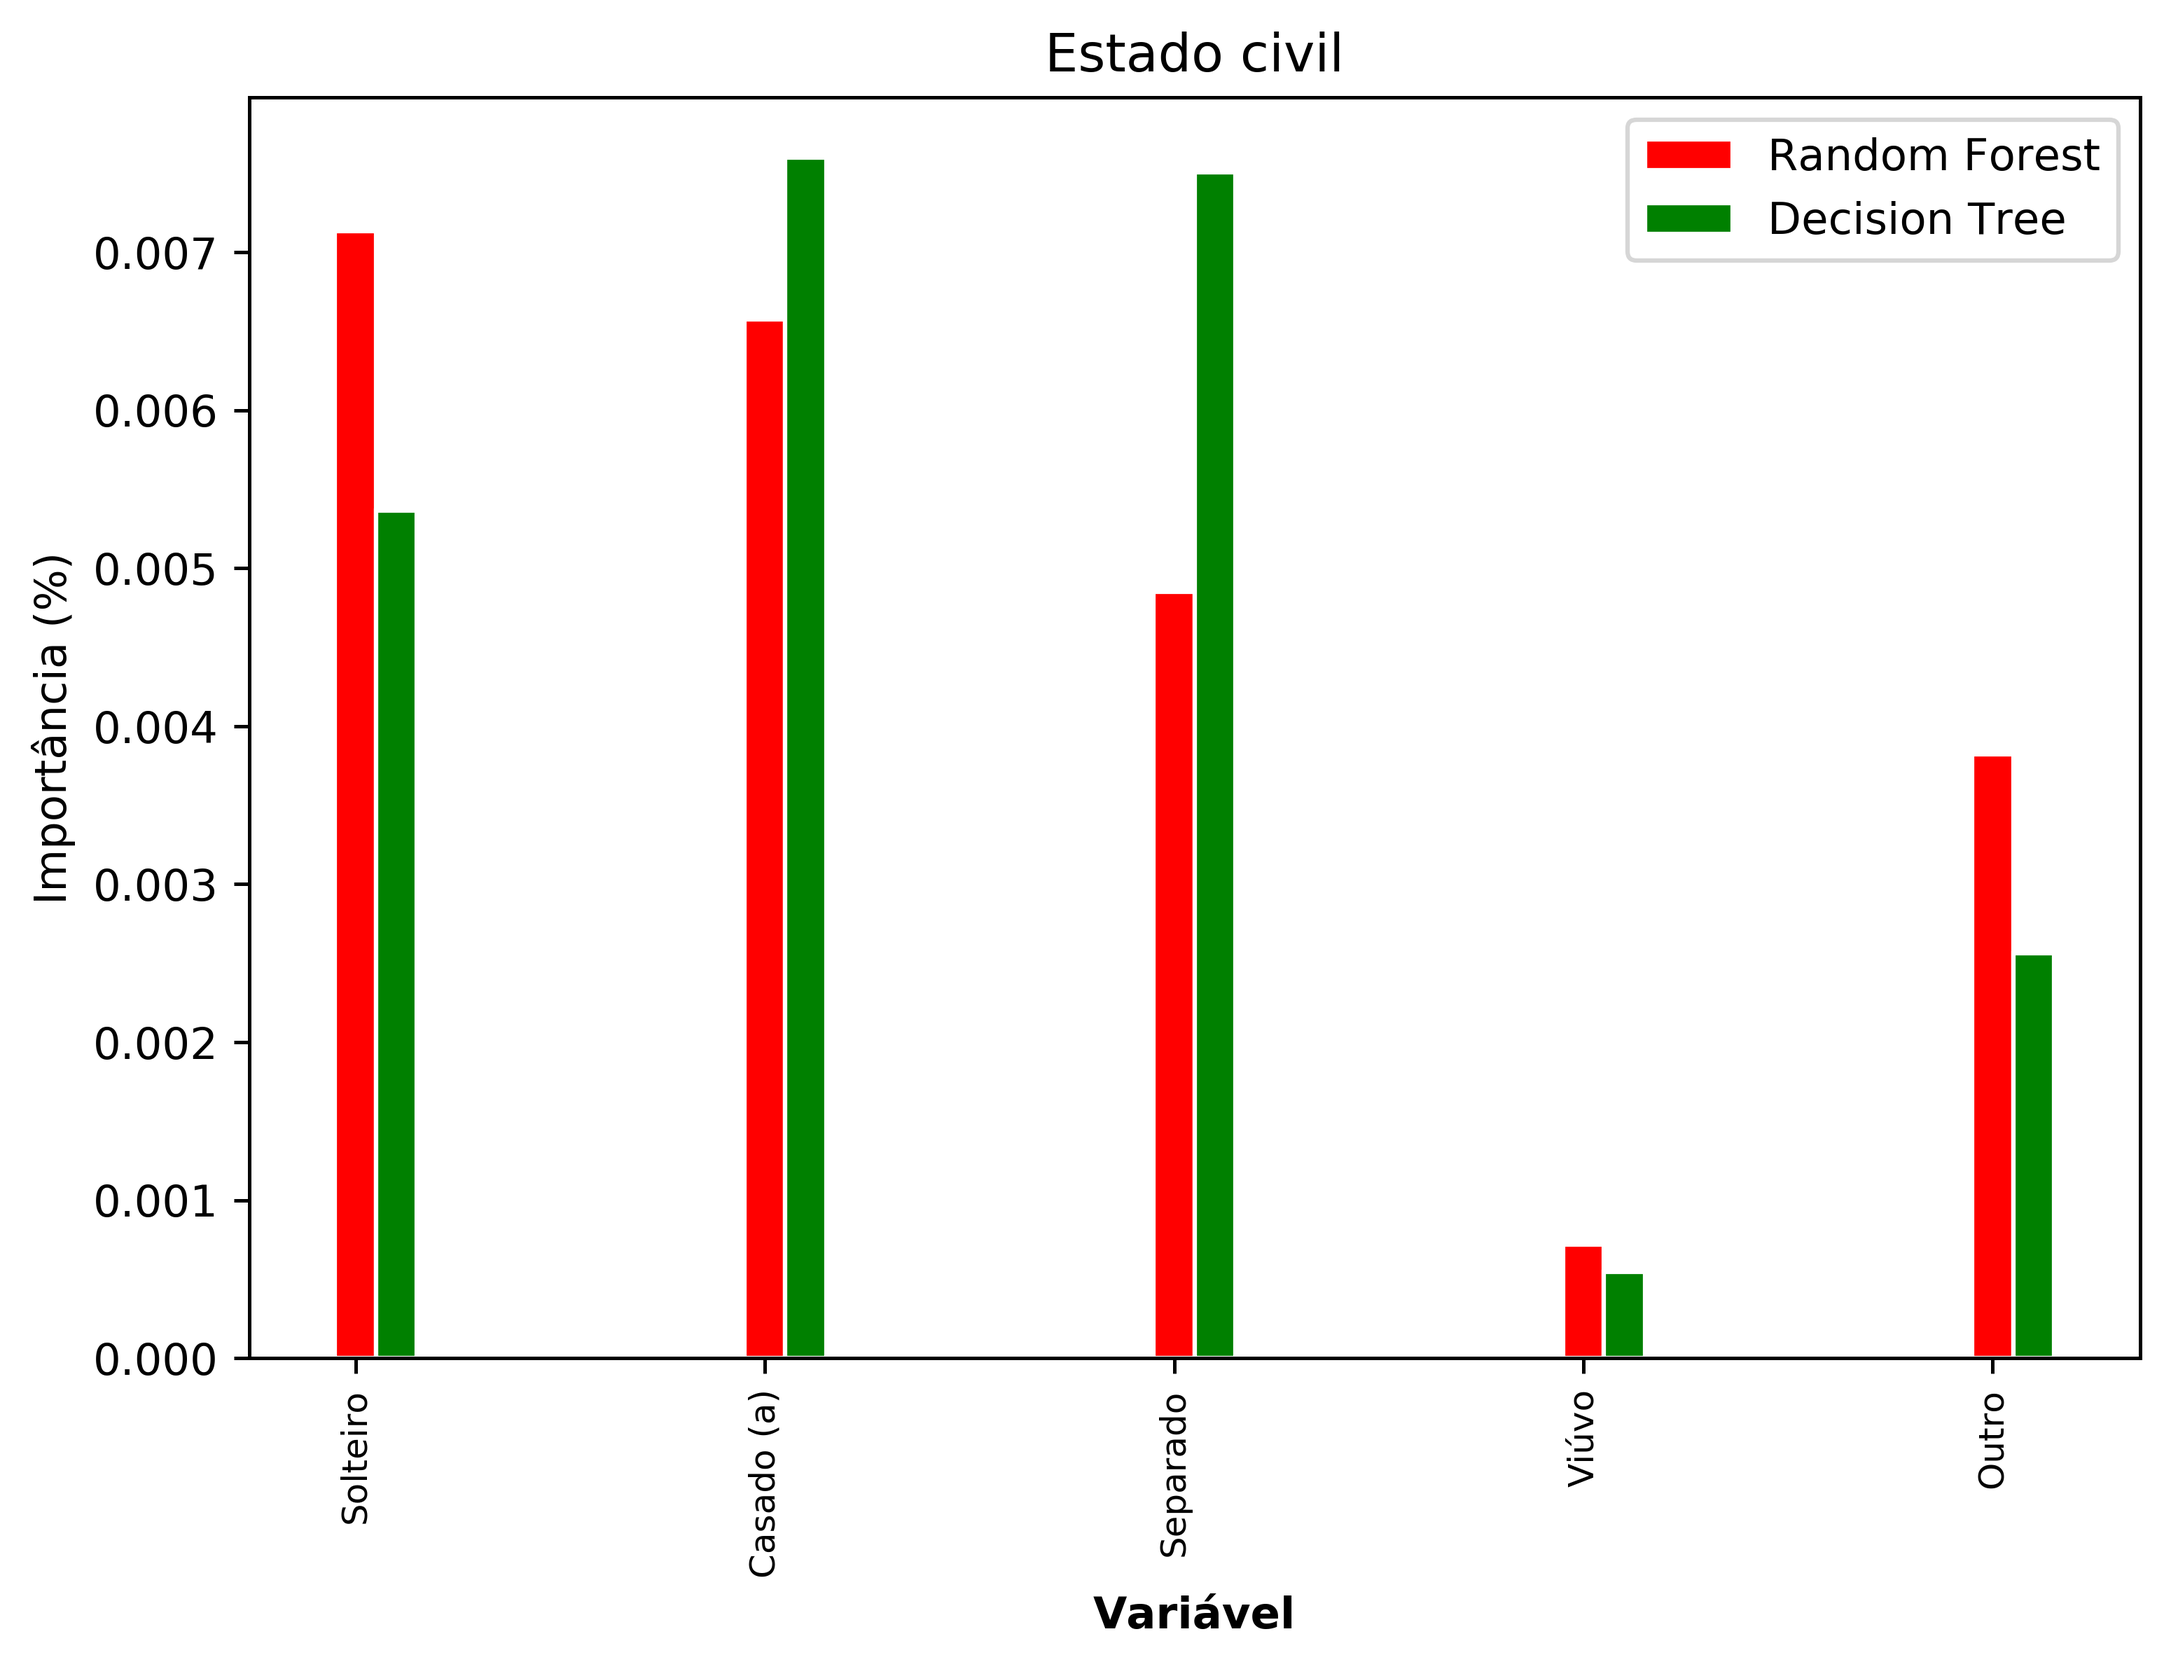
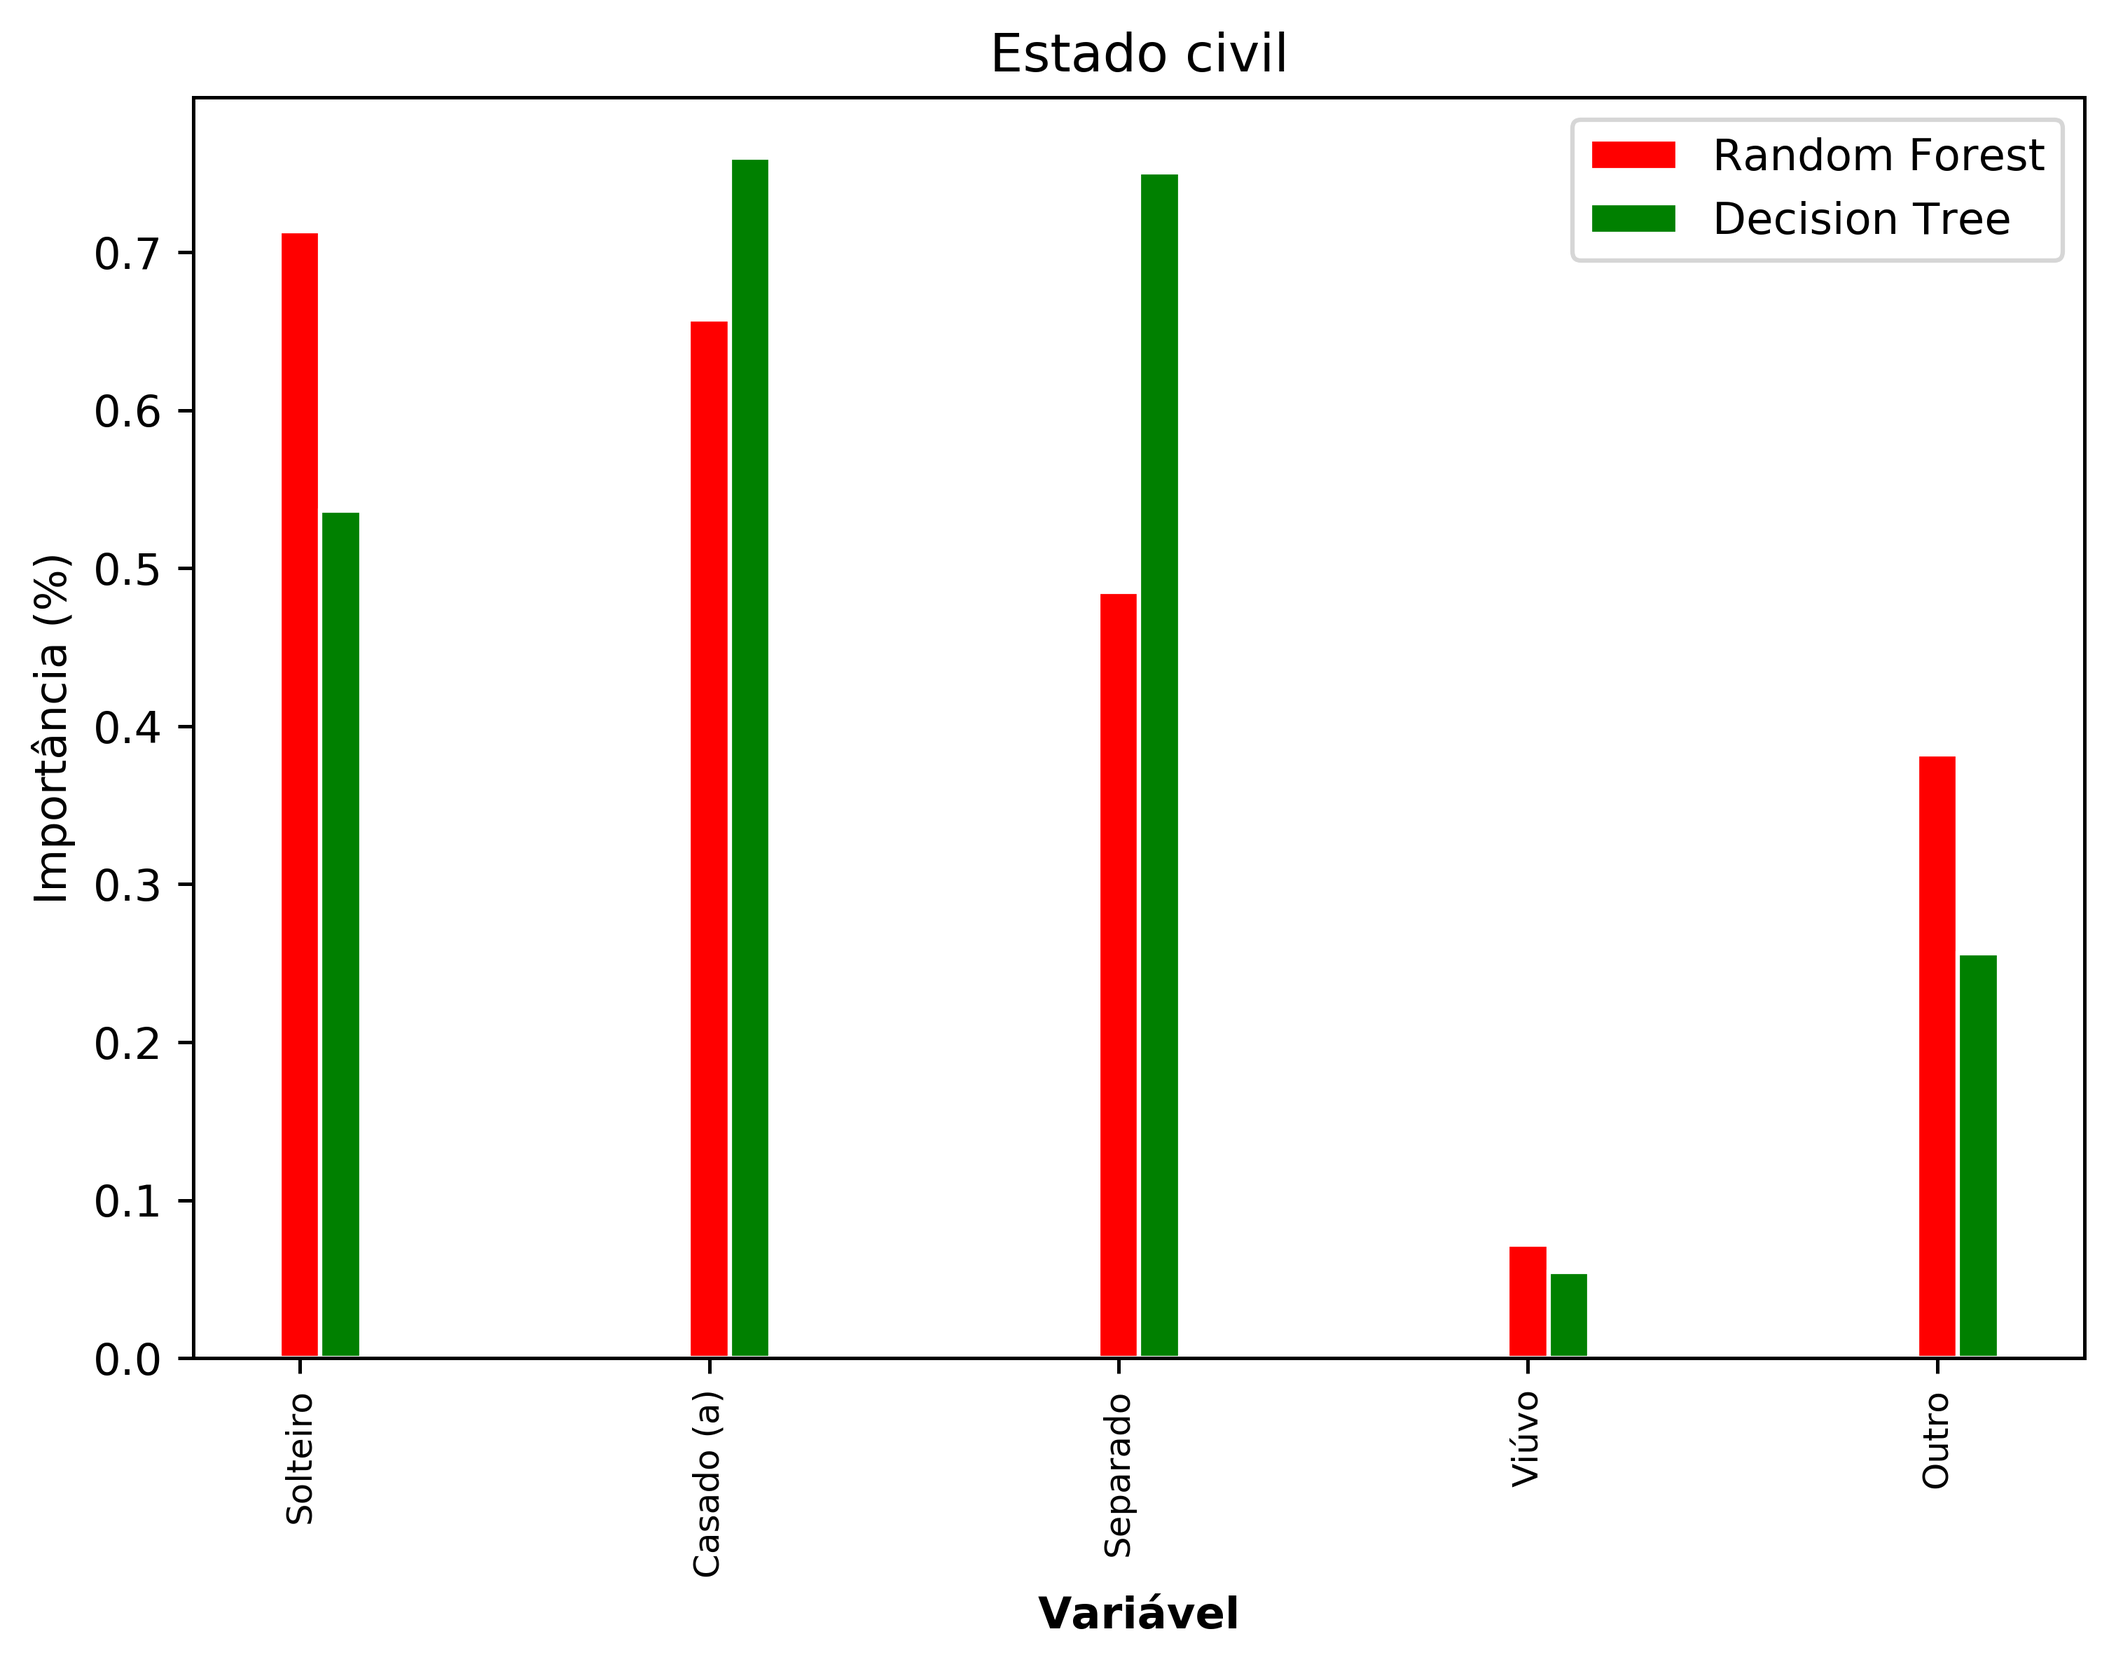
Barra de gráficos AL plotada. Comparação do RF com DT. Kfold: splits = 2.

diff --git a/compare_methods_al/compare_methods_al.py b/compare_methods_al/compare_methods_al.py
@@ -285,7 +285,7 @@ x2 = ['Branca','Preta','Amarela','Parda','Indígena','Não quero declarar'];
 y2_rf = [I02_AL_RF[0],I02_AL_RF[1],I02_AL_RF[2],I02_AL_RF[3],I02_AL_RF[4],I02_AL_RF[5]];
 y2_rf = list(map(lambda t:t*100, y2_rf))
 y2_dt = [I02_AL_DT[0],I02_AL_DT[1],I02_AL_DT[2],I02_AL_DT[3],I02_AL_DT[4],I02_AL_DT[5]];
-y2_rf = list(map(lambda t:t*100, y2_dt))
+y2_dt = list(map(lambda t:t*100, y2_dt))
 
 # Configurando a posição no eixo x
 axis2 = np.arange(len(y2_rf))
@@ -365,7 +365,7 @@ plt.xlabel('group', fontweight='bold')
 plt.xticks([k + bar_width for k in range(len(y4_rf))], \
            x4,\
            rotation=90, fontsize=8)
-plt.ylabel('Importância'); 
+plt.ylabel('Importância (%)'); 
 plt.xlabel('Variável');
 plt.title('Escolarização da pai');
 plt.legend();
@@ -397,7 +397,7 @@ plt.xlabel('group', fontweight='bold')
 plt.xticks([k + bar_width for k in range(len(y5_rf))], \
            x5,\
            rotation=90, fontsize=8)
-plt.ylabel('Importância'); 
+plt.ylabel('Importância (%)'); 
 plt.xlabel('Variável');
 plt.title('Escolarização da mãe');
 plt.legend();
@@ -431,7 +431,7 @@ plt.xlabel('group', fontweight='bold')
 plt.xticks([k + bar_width for k in range(len(y6_rf))], \
            x6,\
            rotation=90, fontsize=8)
-plt.ylabel('Importância'); 
+plt.ylabel('Importância (%)'); 
 plt.xlabel('Variável');
 plt.title('Onde e com quem moro');
 plt.legend();
@@ -465,7 +465,7 @@ plt.xlabel('group', fontweight='bold')
 plt.xticks([k + bar_width for k in range(len(y7_rf))], \
            x7,\
            rotation=90, fontsize=8)
-plt.ylabel('Importância'); 
+plt.ylabel('Importância (%)'); 
 plt.xlabel('Variável');
 plt.title('Quantos moram com o estudante');
 plt.legend();
@@ -501,7 +501,7 @@ plt.xlabel('group', fontweight='bold')
 plt.xticks([k + bar_width for k in range(len(y8_rf))], \
            x8,\
            rotation=90, fontsize=8)
-plt.ylabel('Importância'); 
+plt.ylabel('Importância (%)'); 
 plt.xlabel('Variável');
 plt.title('Renda total');
 plt.legend();
@@ -538,7 +538,7 @@ plt.xlabel('group', fontweight='bold')
 plt.xticks([k + bar_width for k in range(len(y9_rf))], \
            x9,\
            rotation=90, fontsize=9)
-plt.ylabel('Importância'); 
+plt.ylabel('Importância (%)'); 
 plt.xlabel('Variável');
 plt.title('Situação financeira');
 plt.legend();
@@ -573,7 +573,7 @@ plt.xlabel('group', fontweight='bold')
 plt.xticks([k + bar_width for k in range(len(y10_rf))], \
            x10,\
            rotation=90, fontsize=9)
-plt.ylabel('Importância'); 
+plt.ylabel('Importância (%)'); 
 plt.xlabel('Variável');
 plt.title('Situação de trabalho');
 plt.legend();
@@ -611,7 +611,7 @@ plt.xlabel('group', fontweight='bold')
 plt.xticks([k + bar_width for k in range(len(y11_rf))], \
            x11,\
            rotation=90, fontsize=9)
-plt.ylabel('Importância'); 
+plt.ylabel('Importância (%)'); 
 plt.xlabel('Variável');
 plt.title('Bolsa ou financiamento para custeio de mensalidade');
 plt.legend();
@@ -645,7 +645,7 @@ plt.xlabel('group', fontweight='bold')
 plt.xticks([k + bar_width for k in range(len(y12_rf))], \
            x12,\
            rotation=90, fontsize=9)
-plt.ylabel('Importância'); 
+plt.ylabel('Importância (%)'); 
 plt.xlabel('Variável');
 plt.title('Auxílio permanência');
 plt.legend();
@@ -680,7 +680,7 @@ plt.xlabel('group', fontweight='bold')
 plt.xticks([k + bar_width for k in range(len(y13_rf))], \
            x13,\
            rotation=90, fontsize=9)
-plt.ylabel('Importância'); 
+plt.ylabel('Importância (%)'); 
 plt.xlabel('Variável');
 plt.title('Tipo de bolsa recebido');
 plt.legend();
@@ -716,7 +716,7 @@ plt.xlabel('group', fontweight='bold')
 plt.xticks([k + bar_width for k in range(len(y14_rf))], \
            x14,\
            rotation=90, fontsize=9)
-plt.ylabel('Importância'); 
+plt.ylabel('Importância (%)'); 
 plt.xlabel('Variável');
 plt.title('Programas de atividade no exterior');
 plt.legend();
@@ -751,7 +751,7 @@ plt.xlabel('group', fontweight='bold')
 plt.xticks([k + bar_width for k in range(len(y15_rf))], \
            x15,\
            rotation=90, fontsize=9)
-plt.ylabel('Importância'); 
+plt.ylabel('Importância (%)'); 
 plt.xlabel('Variável');
 plt.title('Ingresso por cota');
 plt.legend();
@@ -783,7 +783,7 @@ plt.xlabel('group', fontweight='bold')
 plt.xticks([k + bar_width for k in range(len(y16_rf))], \
            x16,\
            rotation=90, fontsize=9)
-plt.ylabel('Importância'); 
+plt.ylabel('Importância (%)'); 
 plt.xlabel('Variável');
 plt.title('UF que concluiu o médio');
 plt.legend();
@@ -819,7 +819,7 @@ plt.xlabel('group', fontweight='bold')
 plt.xticks([k + bar_width for k in range(len(y17_rf))], \
            x17,\
            rotation=90, fontsize=9)
-plt.ylabel('Importância'); 
+plt.ylabel('Importância (%)'); 
 plt.xlabel('Variável');
 plt.title('Tipo de escola no médio');
 plt.legend();
@@ -852,7 +852,7 @@ plt.xlabel('group', fontweight='bold')
 plt.xticks([k + bar_width for k in range(len(y18_rf))], \
            x18,\
            rotation=90, fontsize=9)
-plt.ylabel('Importância'); 
+plt.ylabel('Importância (%)'); 
 plt.xlabel('Variável');
 plt.title('Modalidade do Ensino Médio');
 plt.legend();
@@ -887,7 +887,7 @@ plt.xlabel('group', fontweight='bold')
 plt.xticks([k + bar_width for k in range(len(y19_rf))], \
            x19,\
            rotation=90, fontsize=9)
-plt.ylabel('Importância'); 
+plt.ylabel('Importância (%)'); 
 plt.xlabel('Variável');
 plt.title('Maior incentivo para cursar a graduação');
 plt.legend();
@@ -924,7 +924,7 @@ plt.xlabel('group', fontweight='bold')
 plt.xticks([k + bar_width for k in range(len(y20_rf))], \
            x20,\
            rotation=90, fontsize=9)
-plt.ylabel('Importância'); 
+plt.ylabel('Importância (%)'); 
 plt.xlabel('Variável');
 plt.title('Grupo determinante para enfrentar as dificuldades do curso e concluí-lo');
 plt.legend();
@@ -956,7 +956,7 @@ plt.xlabel('group', fontweight='bold')
 plt.xticks([k + bar_width for k in range(len(y21_rf))], \
            x21,\
            rotation=90, fontsize=9)
-plt.ylabel('Importância'); 
+plt.ylabel('Importância (%)'); 
 plt.xlabel('Variável');
 plt.title('Alguém da família concluiu curso superior');
 plt.legend();
@@ -987,7 +987,7 @@ plt.xlabel('group', fontweight='bold')
 plt.xticks([k + bar_width for k in range(len(y22_rf))], \
            x22,\
            rotation=90, fontsize=9)
-plt.ylabel('Importância'); 
+plt.ylabel('Importância (%)'); 
 plt.xlabel('Variável');
 plt.title('Livros lido no ano (excluindo da Biografia do curso');
 plt.legend();
@@ -1019,7 +1019,7 @@ plt.xlabel('group', fontweight='bold')
 plt.xticks([k + bar_width for k in range(len(y23_rf))], \
            x23,\
            rotation=90, fontsize=9)
-plt.ylabel('Importância'); 
+plt.ylabel('Importância (%)'); 
 plt.xlabel('Variável');
 plt.title('Horas de estudo por semana (excluindo aulas)');
 plt.legend();
@@ -1052,7 +1052,7 @@ plt.xlabel('group', fontweight='bold')
 plt.xticks([k + bar_width for k in range(len(y24_rf))], \
            x24,\
            rotation=90, fontsize=9)
-plt.ylabel('Importância'); 
+plt.ylabel('Importância (%)'); 
 plt.xlabel('Variável');
 plt.title('Oportunidade de aprendizado de idioma estrangeiro');
 plt.legend();
@@ -1088,7 +1088,7 @@ plt.xlabel('group', fontweight='bold')
 plt.xticks([k + bar_width for k in range(len(y25_rf))], \
            x25,\
            rotation=90, fontsize=9)
-plt.ylabel('Importância'); 
+plt.ylabel('Importância (%)'); 
 plt.xlabel('Variável');
 plt.title('Porque escolhi o curso');
 plt.legend();
@@ -1124,7 +1124,7 @@ plt.xlabel('group', fontweight='bold')
 plt.xticks([k + bar_width for k in range(len(y26_rf))], \
            x26,\
            rotation=90, fontsize=9)
-plt.ylabel('Importância'); 
+plt.ylabel('Importância (%)'); 
 plt.xlabel('Variável');
 plt.title('Porque escolhi essa IES');
 plt.legend();
